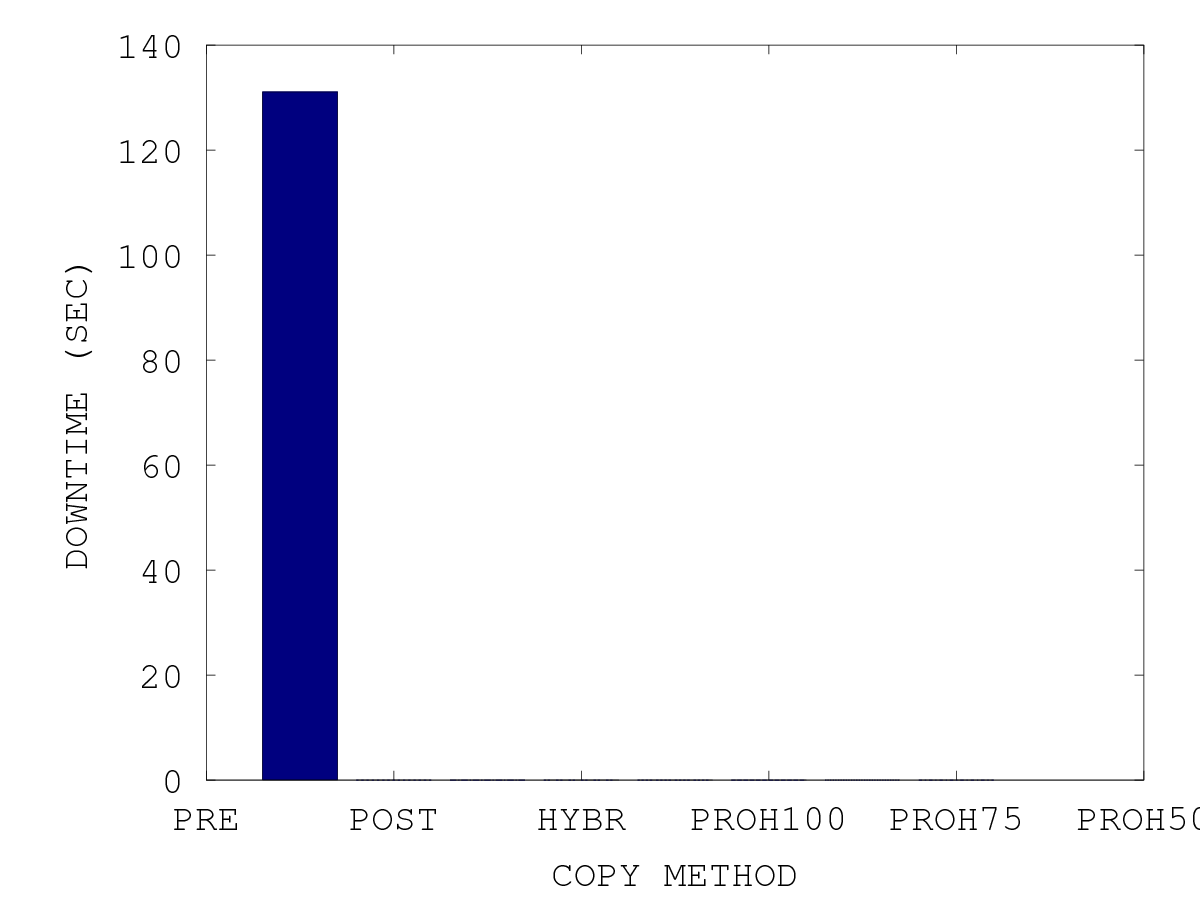
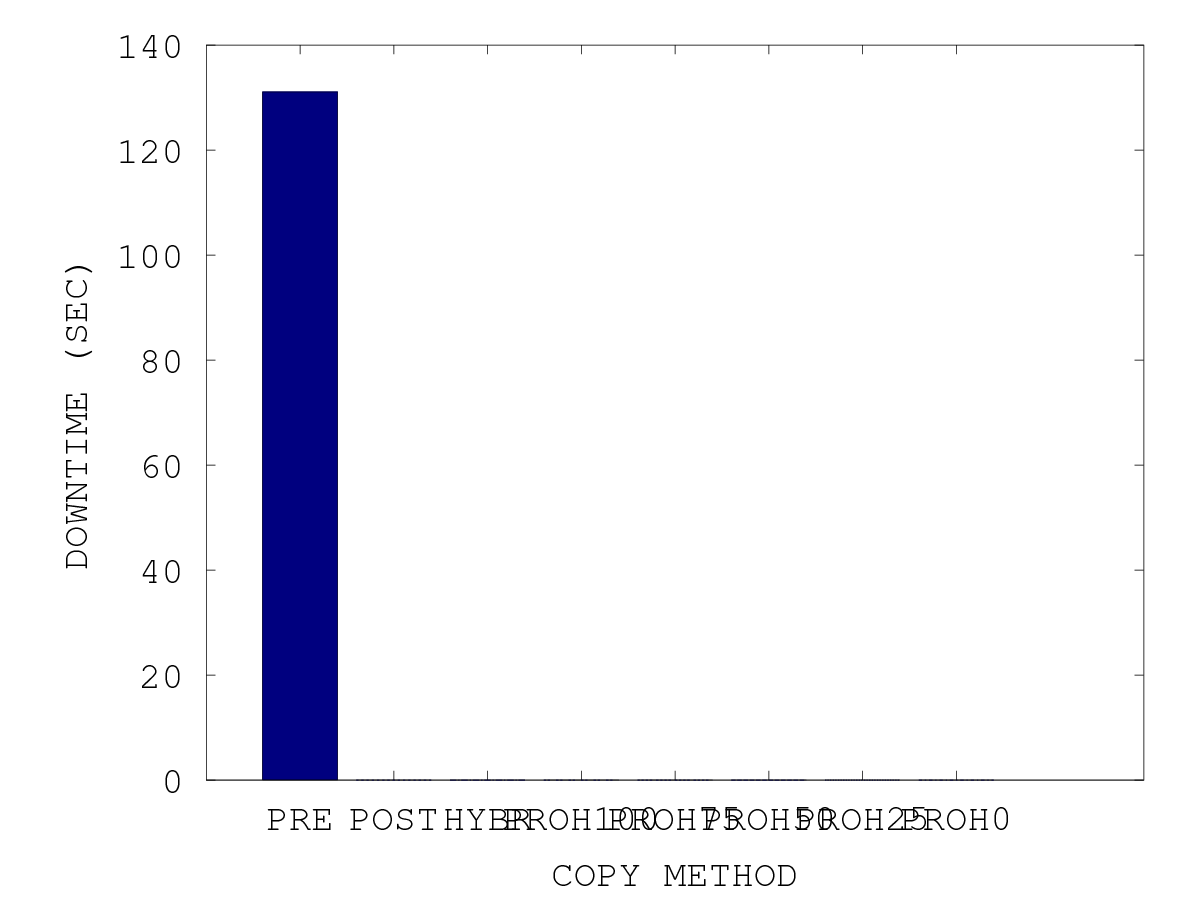
basic.m

diff --git a/basic.m b/basic.m
@@ -293,7 +293,7 @@ figure;
 output = strcat(prefix, ".dt");
 
 bar(A(:,2))
-set(gca, 'XTickLabel', x, 'FontSize', fontsize)
+set(gca, 'XTick', 1:8, 'XTickLabel', x, 'FontSize', fontsize)
 xlabel('COPY METHOD', 'FontSize', fontsize);
 ylabel('DOWNTIME (SEC)', 'FontSize', fontsize);
 
@@ -306,7 +306,7 @@ figure;
 output = strcat(prefix, ".td");
 
 bar(A(:,3))
-set(gca, 'XTickLabel', x, 'FontSize', fontsize)
+set(gca, 'XTick', 1:8, 'XTickLabel', x, 'FontSize', fontsize)
 xlabel('COPY METHOD', 'FontSize', fontsize);
 ylabel('TOTAL DATA TRANSFERRED (KB)', 'FontSize', fontsize);
 
